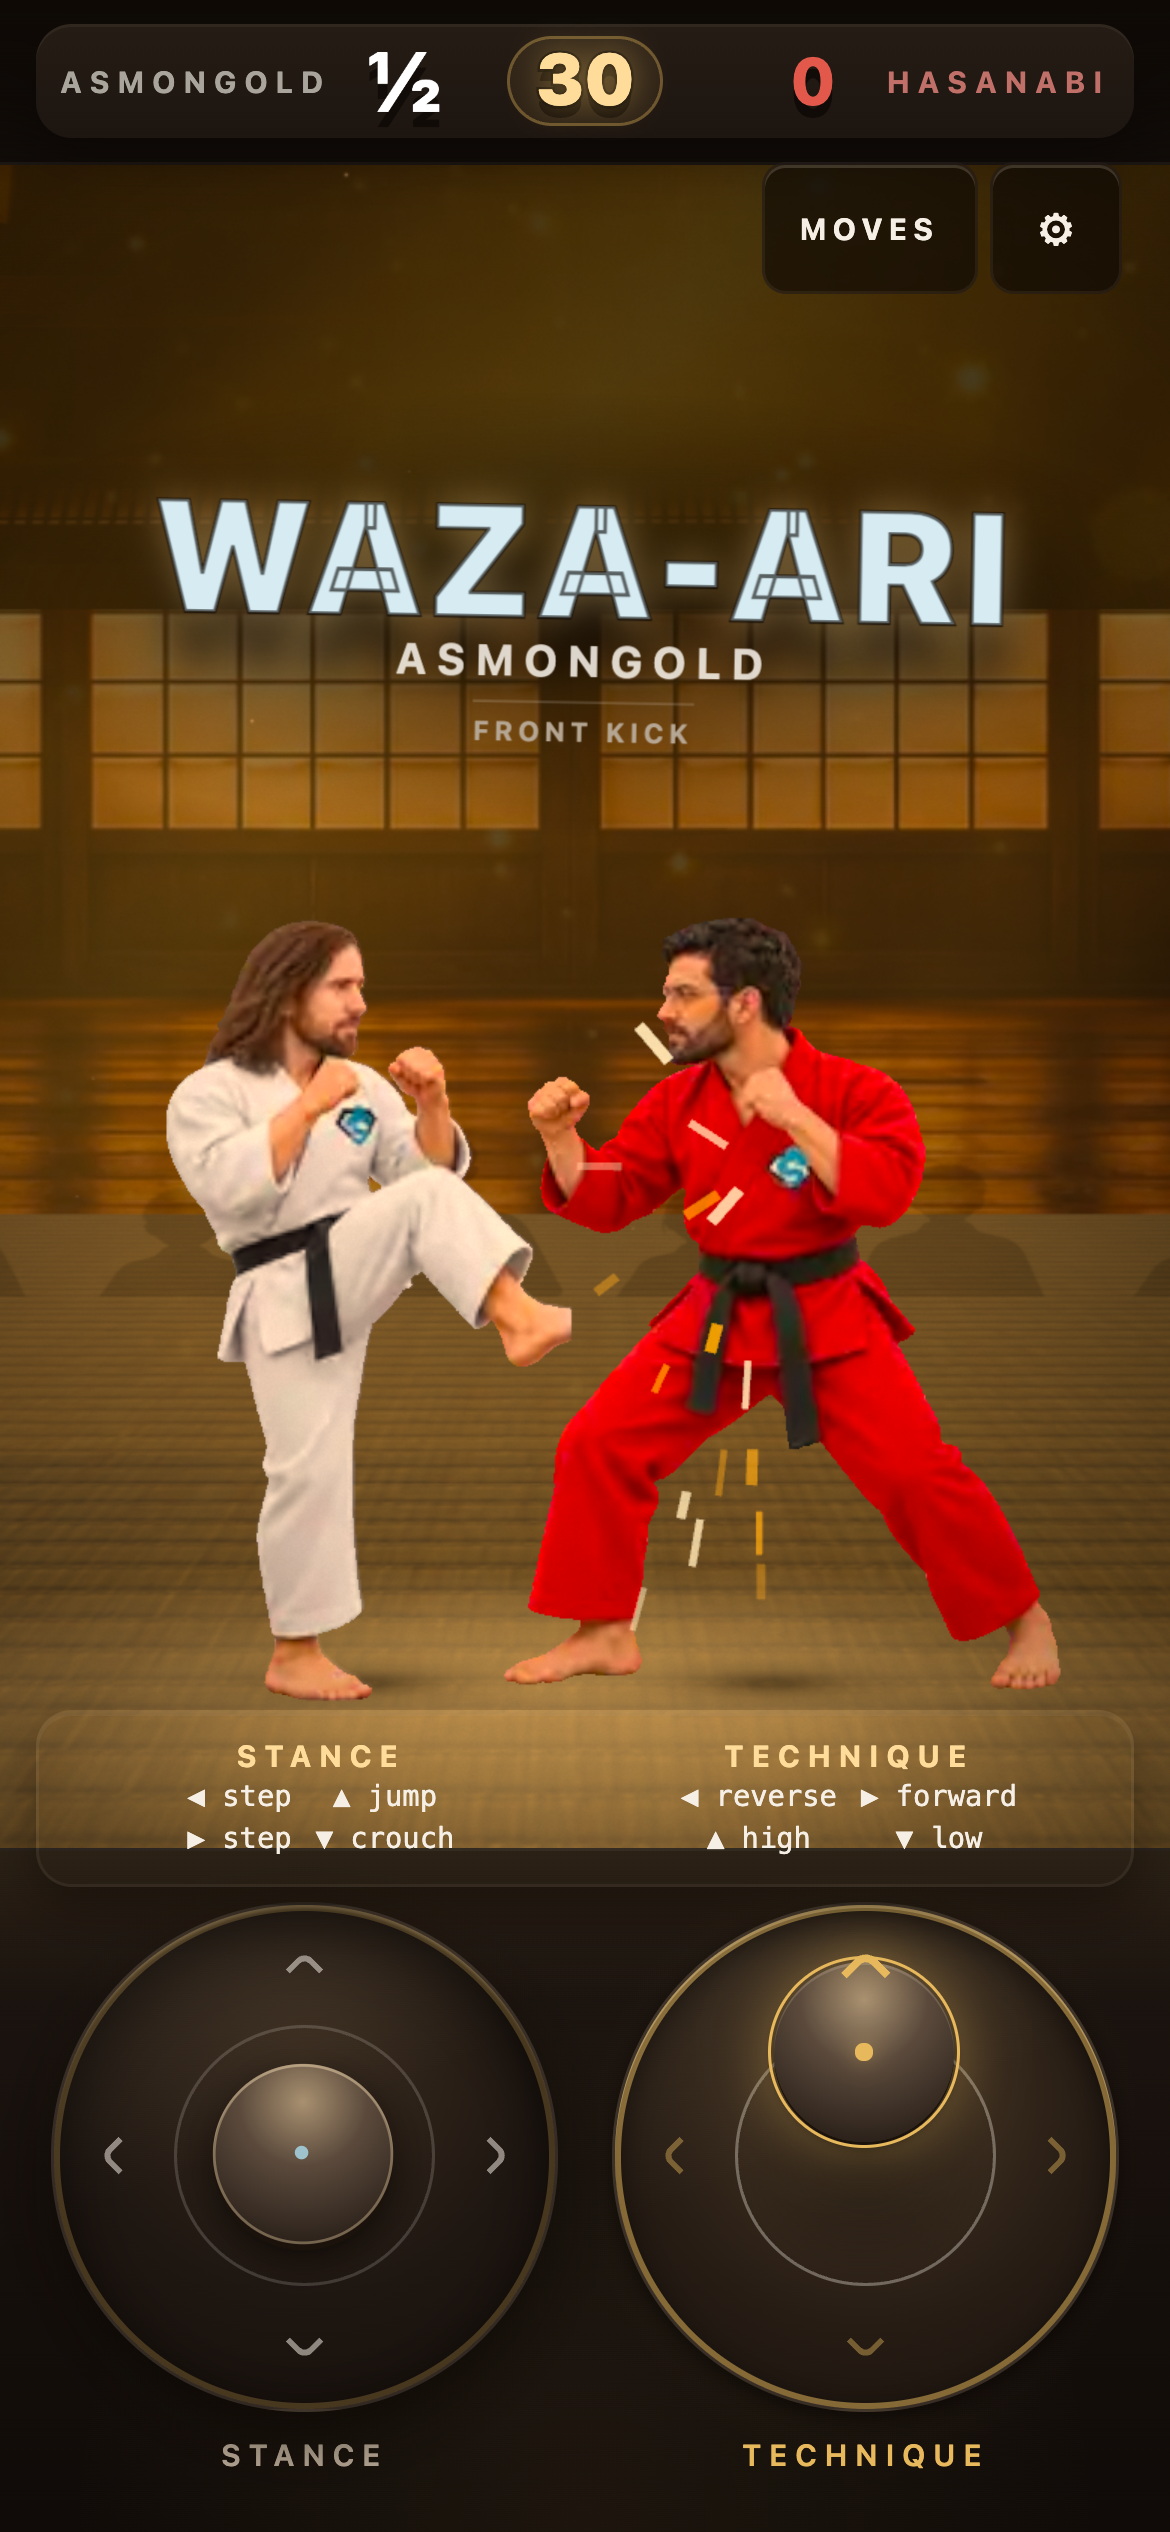
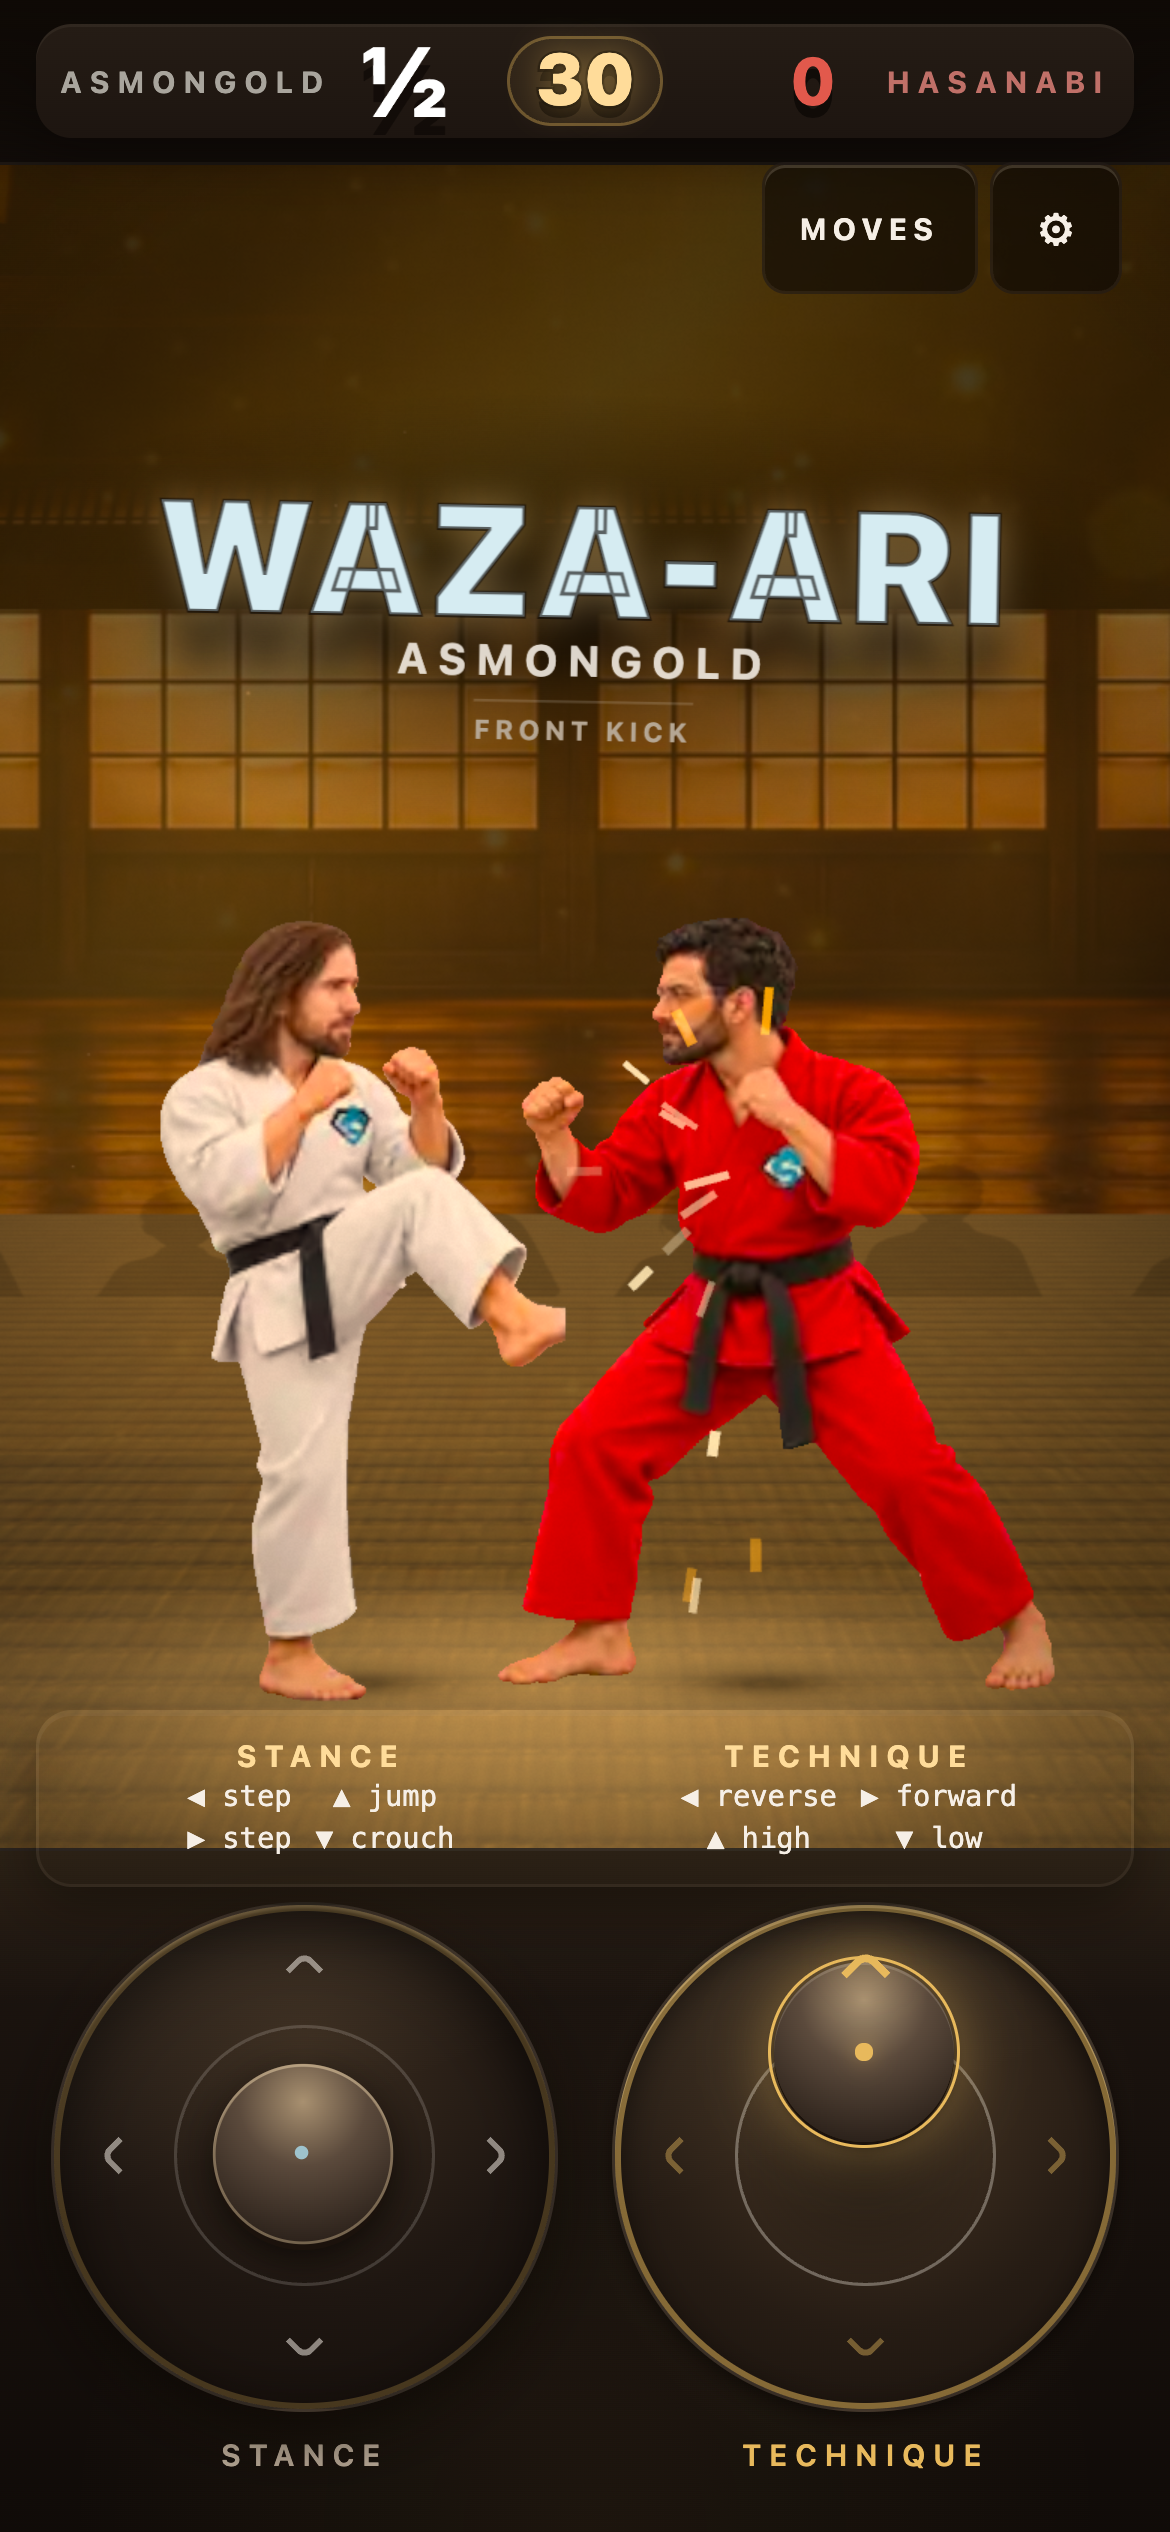
fix(vfx): the strike afterimage was a second fighter, not a trail
Four reviewers across three rounds described something wrong in the kick frames
and none of them named it. grok-4.7 round 19: "the red spinning-kick leg passes
through Asmongold's chest and the bare foot draws out the far side of his
torso". fugu-max round 21: "severed foot sprite on Asmongold's front kick",
"floating severed limb artifact". gemini-3.7-flash round 22: "corrupted sprite
and floating severed limb artifact on front kick". qwen3.8-flash: the IPPON
flash "clips the struck head to a featureless white blob".

Every one of them was describing a real thing and none of them had the right
name for it, because the thing they were reacting to was not a limb at all.

The sprite atlas is clean. A burst of real captured frames — sixteen input
combinations, five frames each, keeping every frame where a move was live —
showed a back kick fully extended with the foot attached to the leg, and
nothing wrong with it. What the burst also showed, in two frames out of six,
is a translucent second Asmongold standing most of a body width behind the
first.

That is the afterimage. Three ghosts, dropped every three ticks through a
strike's startup and active phases, each drawn at the exact world spot it was
dropped — so the offset is whatever the fighter covered in three ticks. Walking
is a few pixels and the trail reads as speed. A lunging punch or a stepping
kick is most of a body width, and at 0.32 opacity a full silhouette that far
[…]

diff --git a/apps/game/src/spriteRig.ts b/apps/game/src/spriteRig.ts
@@ -100,6 +100,30 @@ interface Ghost {
   life: number;
 }
 
+/**
+ * How far a ghost may trail its fighter, in world units, and how bright it may
+ * get.
+ *
+ * The trail used to draw each ghost at the exact world spot it was dropped,
+ * which means the offset is whatever the fighter covered in three ticks. On a
+ * walk that is nothing and the trail reads as speed. On a lunging punch or a
+ * stepping kick it is most of a body width, and at 0.32 opacity a full
+ * silhouette sitting a body width behind its owner does not read as a trail at
+ * all — it reads as a second fighter standing behind the first one.
+ *
+ * Four reviewers across three rounds described something wrong in the kick
+ * frames (a "severed foot", a leg "passing through" the opponent) and none of
+ * them named it, because the thing they were actually reacting to was a
+ * duplicate. A burst of real frames caught it in two shots: the sprite is
+ * clean, and there is a translucent second Asmongold behind him.
+ *
+ * So the trail is capped to a short offset and dimmed. It still says the strike
+ * was fast; it no longer says there is someone else in the room.
+ */
+const GHOST_TRAIL_MAX = 0.1;
+const clampTrail = (v: number): number => (v < -GHOST_TRAIL_MAX ? -GHOST_TRAIL_MAX : v > GHOST_TRAIL_MAX ? GHOST_TRAIL_MAX : v);
+const GHOST_PEAK_OPACITY = 0.17;
+
 export class SpriteFighterView implements FighterView {
   readonly root = new Group();
   private readonly mesh: Mesh<PlaneGeometry, MeshBasicMaterial>;
@@ -249,14 +273,19 @@ export class SpriteFighterView implements FighterView {
         ghost.mesh.visible = false;
         continue;
       }
-      // Ghosts live in the fighter's group, so hold them at the world spot
-      // they were dropped, not wherever the fighter has moved since.
+      // Ghosts live in the fighter's group, so hold them near the world spot
+      // they were dropped, not wherever the fighter has moved since — but
+      // clamped, or a fast strike leaves a full silhouette a body width back.
+      const offset = clampTrail(ghost.worldX - this.root.position.x);
       ghost.mesh.position.set(
-        ghost.worldX - this.root.position.x,
+        offset,
         this.mesh.position.y + ghost.worldY - this.root.position.y,
         -0.02,
       );
-      ghost.mesh.material.opacity = ghost.life * 0.32;
+      // Dimmer the further behind it has fallen, so the newest ghost is the
+      // brightest and the trail reads as depth rather than as copies.
+      const staleness = 1 - Math.abs(offset) / GHOST_TRAIL_MAX;
+      ghost.mesh.material.opacity = ghost.life * GHOST_PEAK_OPACITY * (0.35 + 0.65 * staleness);
     }
   }
 
